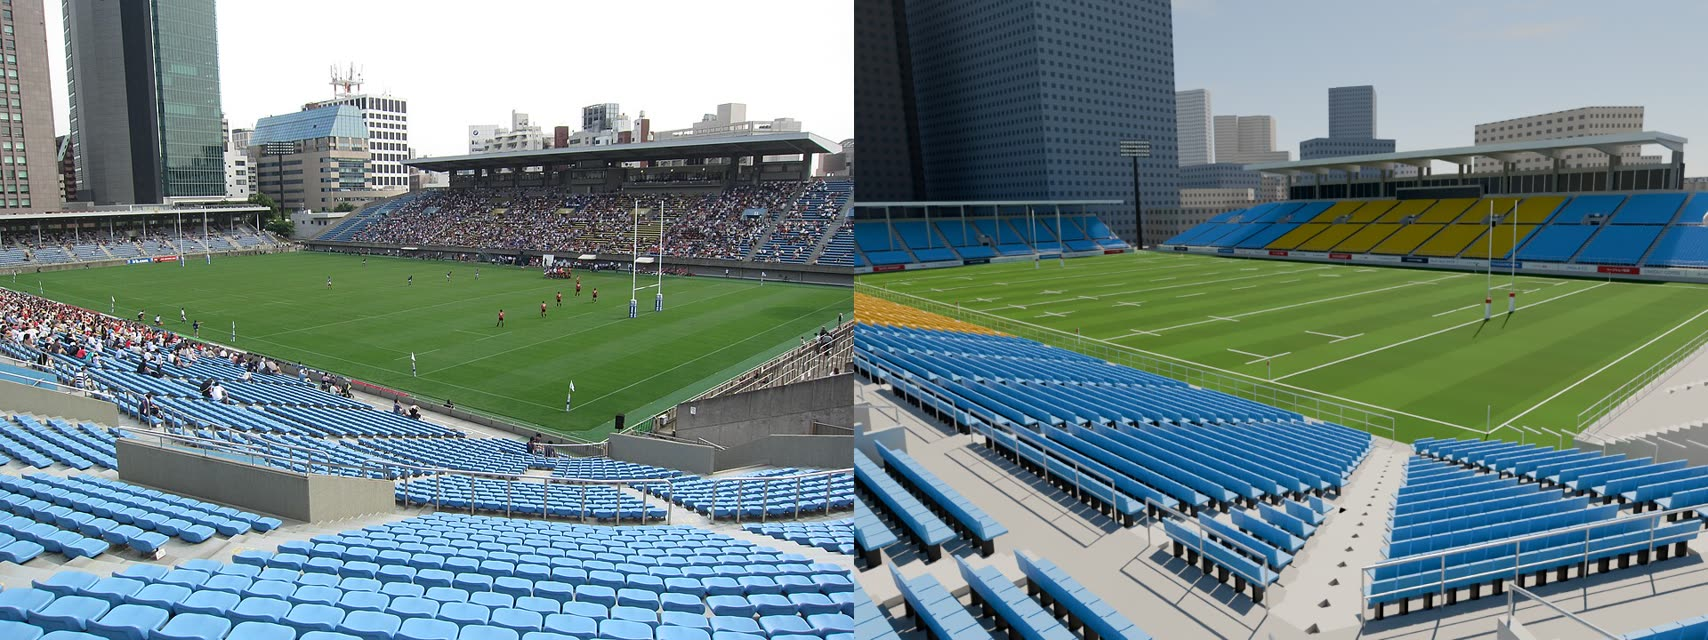
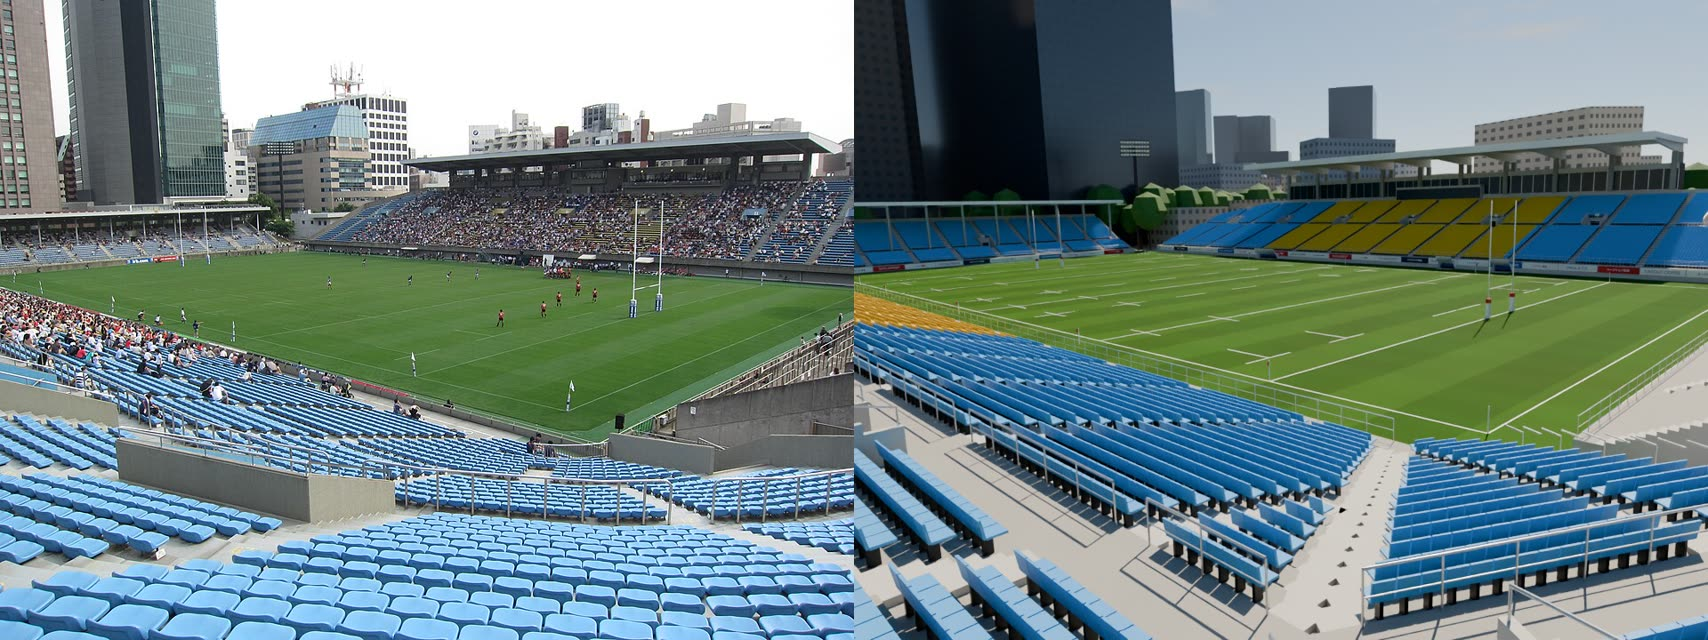
メインスタンドの前の白い屋根(ベンチ)3 つを写真 02 から作った

diff --git a/scripts/cb/pitch.py b/scripts/cb/pitch.py
@@ -141,11 +141,12 @@ def _benches(cfg, c):
     y_back = b["y"] + b["depth"] / 2
     h = b["height"]
     frame = M.get("white_steel")
-    clear = M.get("poly_clear")
+    clear = M.get(b.get("roof", "poly_clear"))
     mb = MB()
     n = 8
-    for xc in b["x_centers"]:
-        x0, x1 = xc - b["length"] / 2, xc + b["length"] / 2
+    lens = b.get("lengths") or [b["length"]] * len(b["x_centers"])
+    for xc, L in zip(b["x_centers"], lens):
+        x0, x1 = xc - L / 2, xc + L / 2
         # 後ろの壁から前へ丸くかぶさる屋根(4 分の 1 の弧)
         prof = []
         back_h = h * 0.45
@@ -162,7 +163,7 @@ def _benches(cfg, c):
             pts = [(x, p[0], p[1]) for p in prof] + [(x, prof[-1][0], prof[-1][1] - 0.05), (x, y_back - 0.3, 0.0)]
             mb.face(pts, clear)
         # 骨
-        nr = int(round(b["length"] / 2.0))
+        nr = max(1, int(round(L / 2.0)))
         for k in range(nr + 1):
             x = x0 + (x1 - x0) * k / nr
             for i in range(len(prof) - 1):

diff --git a/PROGRESS.md b/PROGRESS.md
@@ -50,6 +50,7 @@
 | 01:06 | (調べただけ)写真 03 の看板の高さを解いたカメラで測った: z 0.1〜1.05 m で模型と同じ。太く見えたのは上の灰色の壁(〜1.5 m)まで含めていたため | 直さない |
 | 01:10 | 仕上げの 5 角度を見直し、2 つのカメラを直した: ゴール裏は南の屋根の柱が正面をふさいでいたので前段 (−78, 0, 4.4) へ、外観は門の柱と木がふさいでいたので道の向こうの歩道 (1, 152, 1.6) から門越しに | 良くなった(門の枠に外壁と大階段が収まる。写真 031・037 の構図) |
 | 01:14 | 夜の外観: 真っ暗だったので、吹き抜けの天井灯、門の両脇と階段の前の街灯 4 本、門の文字の明かり、外壁と広場を照らす面の光を足した(夜だけ) | 良くなった。夜でも外壁・門・大階段が見える |
+| 01:18 | メインスタンドの前の壁ぎわの白い屋根(ベンチ)3 つ: 比較 02 の解いたカメラで屋根の左右の端から X ≈ −25.8(幅 6 m)、20.3、30.9(各 3 m)。pitch._benches を幅別・白い屋根に対応させた | 良くなった。比較 02 の重ね絵で写真の白い屋根と重なる |
 
 自分で決めたこと:
 - 角のブロックの向きは 60 度、折れ目は |X| = 64.8(推定)。62.8 だと比較 02 の撮影位置で段が高すぎたので外へ 2 m ずらした。

diff --git a/docs/remaining.md b/docs/remaining.md
@@ -26,6 +26,6 @@
 
 ## まだ作っていないもの
 
-- 選手のベンチ、記者席の机
+- 記者席の机(ベンチの白い屋根 3 つは写真 02 から作った。中の様子は推定)
 - スタンドの外壁、正面入場口と東入場口、売店、植え込み
 - 夜の光は照明塔・窓・正面入場口の周りまで。北・南・東の外側の明かりはまだ。質感の仕上げ(コンクリートのむら、芝の刈り目の向き)
